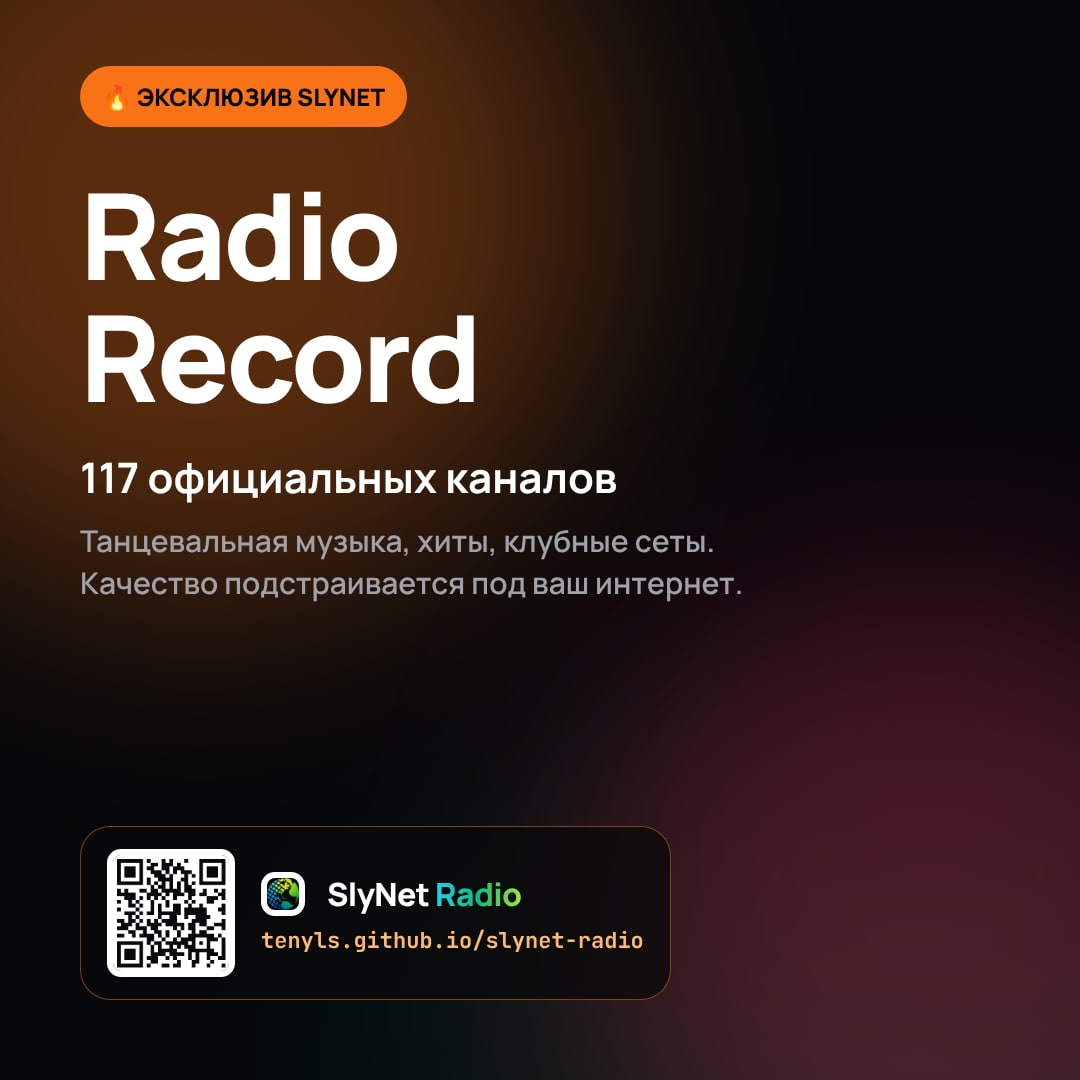
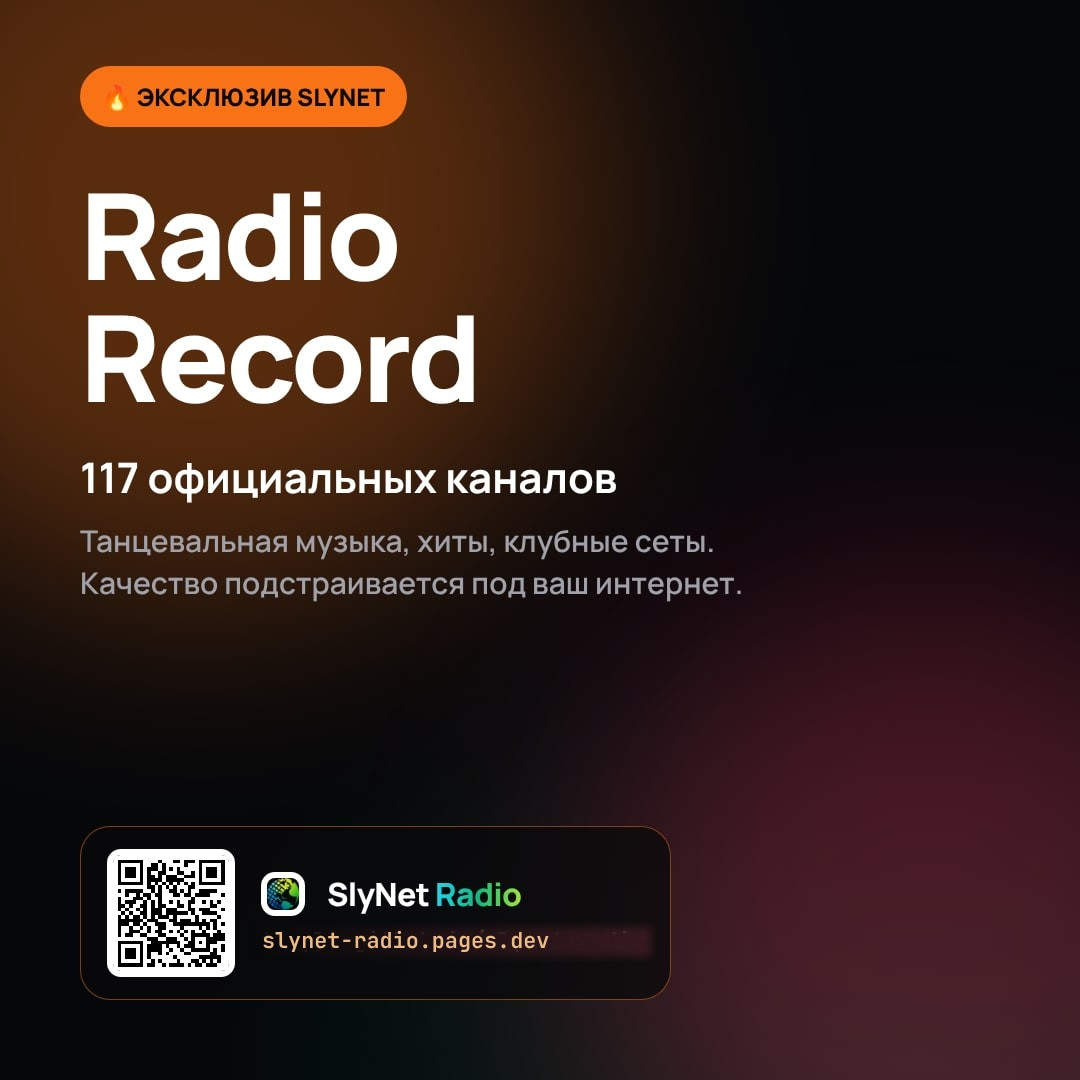
Реклама и посты: адрес https://slynet-radio.pages.dev/ (постеры, QR-коды, бот, «Поделиться», страница приложений, превью ссылок)
Claude-Session: https://claude.ai/code/session_01M1nNZowR384MpZyHtmzcsa

Changed region(s): [[0.0917, 0.7944, 0.2139, 0.9167], [0.2444, 0.8556, 0.6111, 0.8861]]

diff --git a/worker/index.js b/worker/index.js
@@ -47,7 +47,7 @@ export default {
     const url = new URL(request.url);
     const p = url.pathname.replace(/\/+$/, '') || '/';
     try {
-      if (p === '/' || p === '/health') return json({ ok: true, service: 'slynet-api', kv: !!env.DB, publish: !!env.GITHUB_TOKEN, telegram: !!env.TELEGRAM_BOT_TOKEN, windy: !!env.WINDY_API_KEY, vk: !!env.VK_CLIENT_ID, share: true, playlists: true, probe: true, version: '2026-10-29a' });
+      if (p === '/' || p === '/health') return json({ ok: true, service: 'slynet-api', kv: !!env.DB, publish: !!env.GITHUB_TOKEN, telegram: !!env.TELEGRAM_BOT_TOKEN, windy: !!env.WINDY_API_KEY, vk: !!env.VK_CLIENT_ID, share: true, playlists: true, probe: true, version: '2026-10-29b' });
       if (p === '/s') return sharePage(url);
       if (p === '/meta') return await handleMeta(url, json, ctx);
       if (p === '/webcams') return await handleWebcams(url, env, json, ctx);
@@ -311,7 +311,7 @@ async function handleProbe(url, json, ctx) {
 }
 
 // ---------- Красивые превью ссылок «Поделиться» (Telegram, ВК, WhatsApp читают эти теги) ----------
-const SITE_URL = 'https://tenyls.github.io/slynet-radio/';
+const SITE_URL = 'https://slynet-radio.pages.dev/';
 function sharePage(url) {
   const q = url.searchParams;
   const h = String(q.get('h') || '');

diff --git a/src/components/AppsView.tsx b/src/components/AppsView.tsx
@@ -7,7 +7,7 @@ const REPO = 'https://github.com/tenyls/slynet-radio';
 const APK_PHONE = `${REPO}/releases/download/android-latest/SlyNetRadio.apk`;
 // Одно универсальное приложение для телефонов, планшетов и Android TV
 const APK_TV = APK_PHONE;
-const SITE = 'https://tenyls.github.io/slynet-radio/';
+const SITE = 'https://slynet-radio.pages.dev/';
 
 interface Versions {
   apk?: string;
@@ -224,7 +224,7 @@ export const AppsView: React.FC = () => {
         </div>
         <ol className="grid sm:grid-cols-2 gap-4">
           <Step n={1} icon={<Compass className="w-4 h-4" />}>
-            Откройте <b className="text-white">tenyls.github.io/slynet-radio</b> именно в <b className="text-white">Safari</b>.
+            Откройте <b className="text-white">slynet-radio.pages.dev</b> именно в <b className="text-white">Safari</b>.
           </Step>
           <Step n={2} icon={<Share className="w-4 h-4" />}>
             Нажмите кнопку <b className="text-white">«Поделиться»</b> — квадрат со стрелкой вверх (внизу на iPhone, вверху на iPad).

diff --git a/index.html b/index.html
@@ -9,7 +9,7 @@
     <meta property="og:title" content="SlyNet Radio — радио со всего мира" />
     <meta property="og:description" content="Тысячи бесплатных радиостанций со всего мира по жанрам и странам." />
     <meta property="og:type" content="website" />
-    <meta property="og:image" content="https://tenyls.github.io/slynet-radio/promo/all.jpg" />
+    <meta property="og:image" content="https://slynet-radio.pages.dev/promo/all.jpg" />
     <meta property="og:image:width" content="1080" />
     <meta property="og:image:height" content="1080" />
     <meta name="twitter:card" content="summary_large_image" />

diff --git a/src/services/share.ts b/src/services/share.ts
@@ -29,7 +29,7 @@ const withPreview = (siteUrl: string, title: string, desc: string, img = '') => 
   return `${previewBase}/s?${q}`;
 };
 
-export const PUBLIC_SITE = 'https://tenyls.github.io/slynet-radio/';
+export const PUBLIC_SITE = 'https://slynet-radio.pages.dev/';
 
 // ---------- base64url для UTF-8 ----------
 const toB64 = (s: string) => {

diff --git a/docs/PROJECT.md b/docs/PROJECT.md
@@ -9,12 +9,13 @@
 - Зеркало: https://slynet-radio.pages.dev (Cloudflare Pages, отдельный аккаунт slynet.radio@…; публикуется из `deploy.yml` вместе с GitHub Pages — секреты CLOUDFLARE_API_TOKEN, CLOUDFLARE_ACCOUNT_ID)
 - Сервер: Cloudflare Worker `slynet-api` → https://slynet-api.tenylse.workers.dev (код: `worker/index.js`; KV `DB`).
   Деплой сервера — **вручную владельцем**: Cloudflare → Workers & Pages → slynet-api → Edit code → вставить весь файл → Deploy.
-  Проверка версии: `/health` (сейчас `version: 2026-10-29a`, `share/playlists/probe: true`).
+  Проверка версии: `/health` (сейчас `version: 2026-10-29b`, `share/playlists/probe: true`).
 - Telegram-канал @SlyNetRadio + стена ВК (vk.com/clubslynet) — автопостинг ботом.
 
 ## Правила владельца (важно)
 - Только легальные официальные потоки, никакого пиратства. ТВ-раздел есть только на сайте и в APK с сайта (не в сторах).
 - **ТВ нигде не упоминать в рекламе, постерах и постах.**
+- **В рекламе, постерах, QR-кодах и подписях постов — только адрес https://slynet-radio.pages.dev/** (старый tenyls.github.io/slynet-radio продолжает работать; на нём остаются служебные вещи: обновления приложения, каталог для приложений, политика конфиденциальности в магазинах).
 - Все посты в Telegram — **без звука** (`SILENT = true` в боте).
 - Каждое обновление — сразу пост в канал с «хук»-текстом и своим постером (`public/releases.json` → поля `post`, `image`; запуск: workflow `telegram.yml`, mode=`release`).
 - ВК: документы/бизнес-верификацию VK ID не проходит — только ключ сообщества. Картинки в ВК пока не работают (сбой ВК), посты идут текстом.
